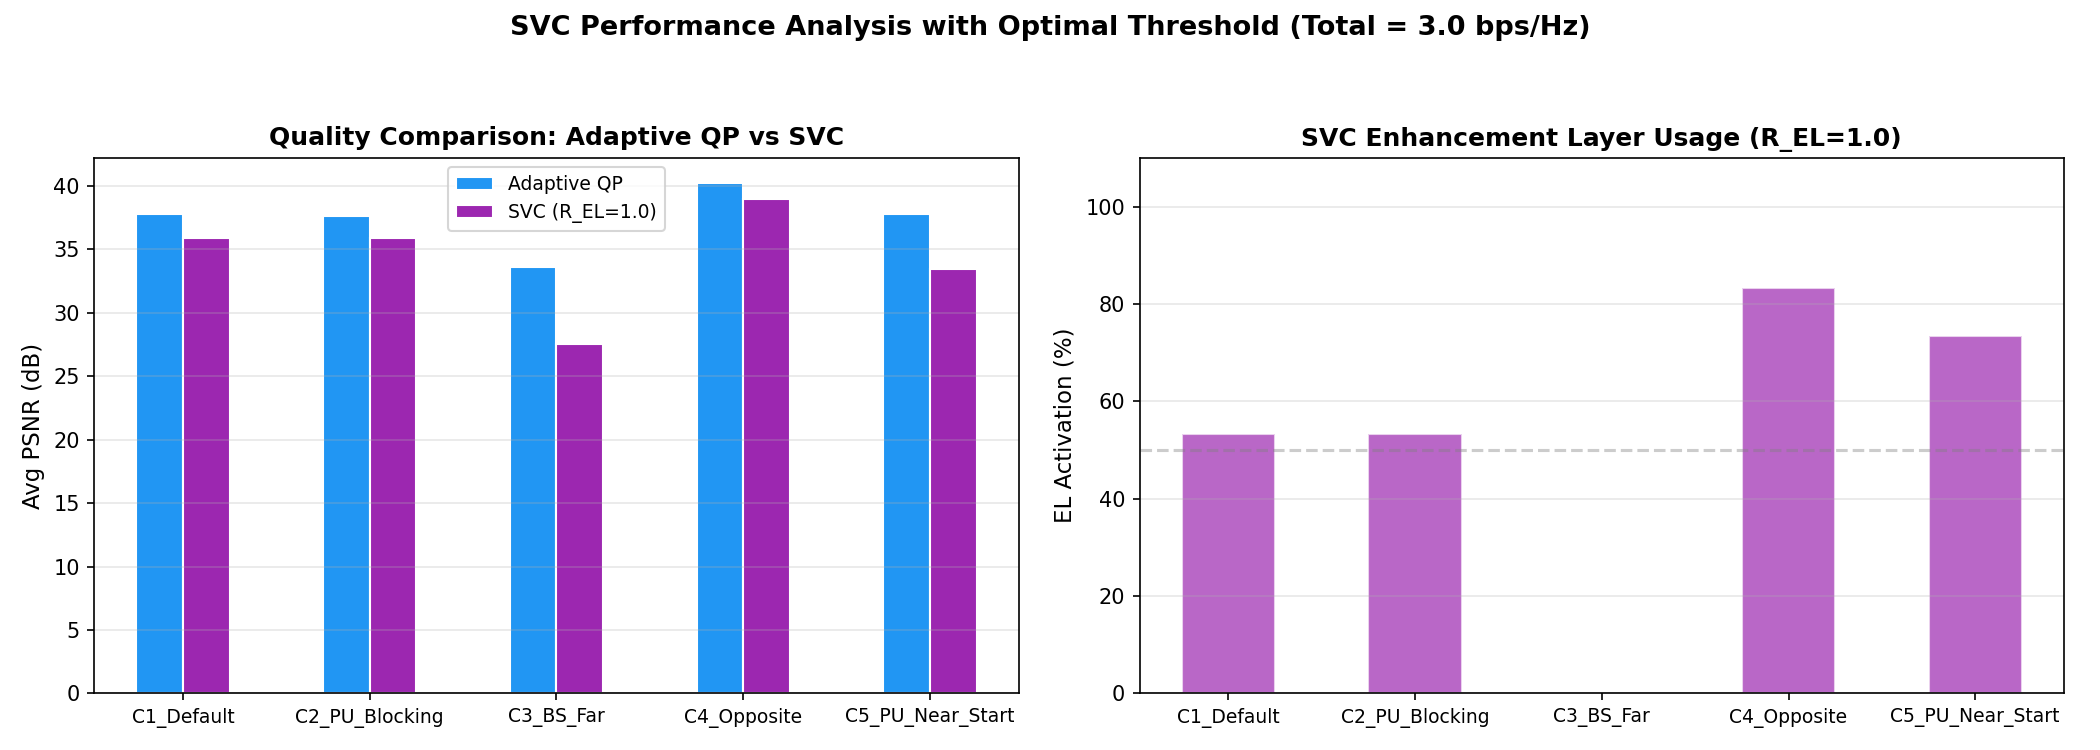
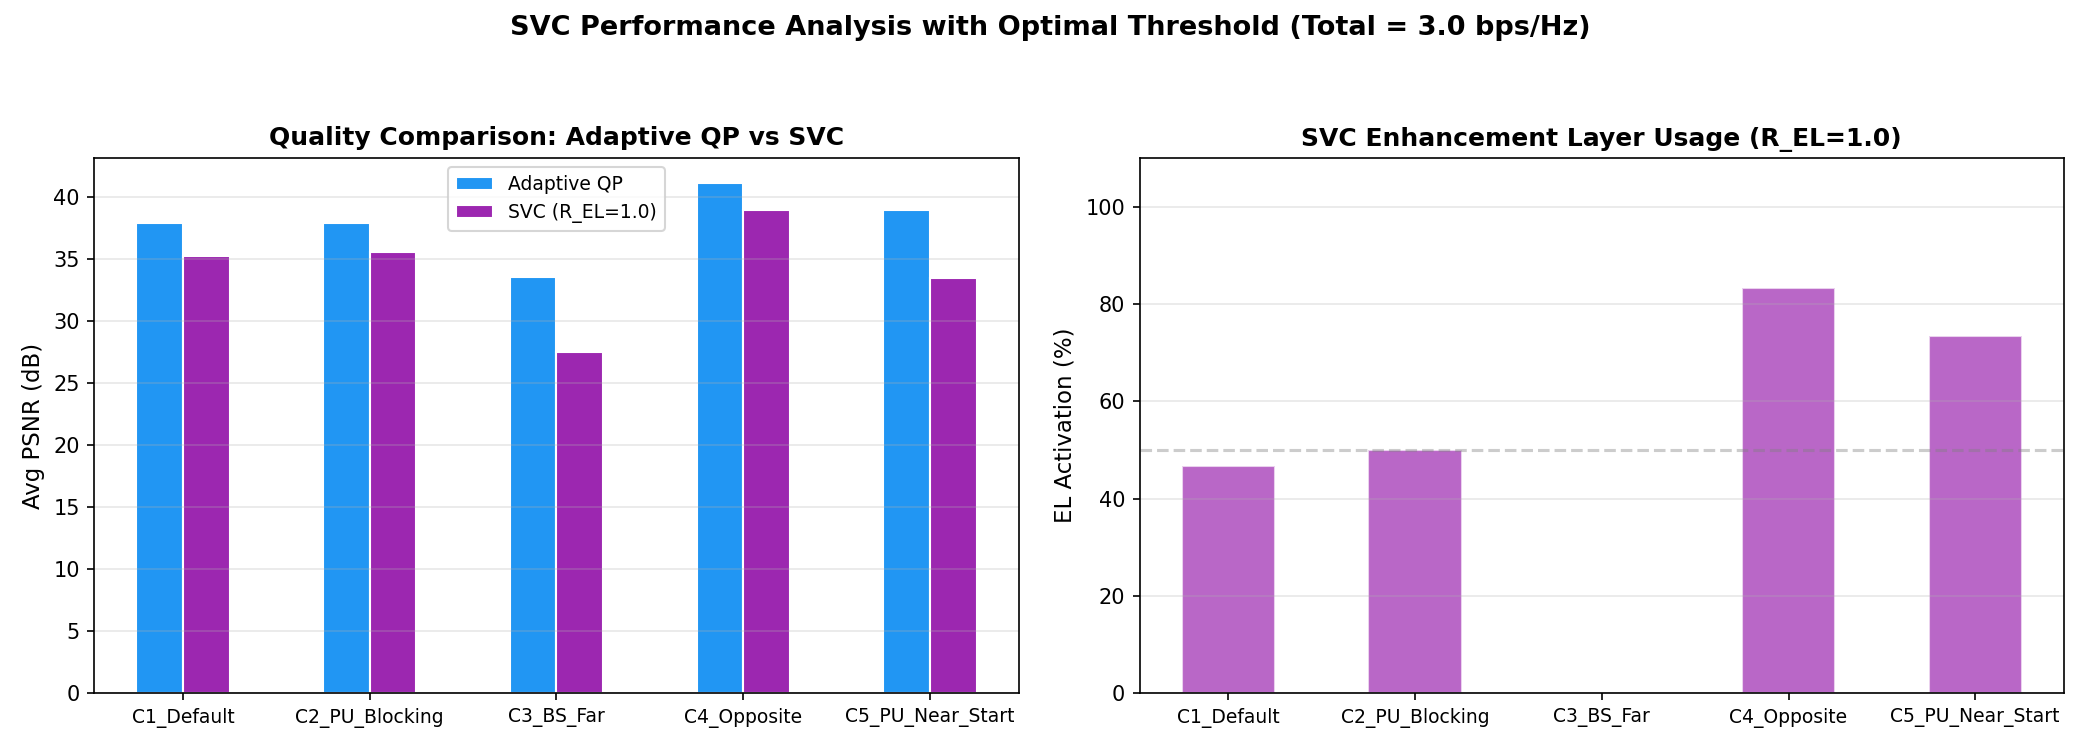
Fix R_EL=1.0: Sigmoid QoE now matches actual Rate range, PSNR improved +0.3~1.2dB

diff --git a/encoder.py b/encoder.py
@@ -68,7 +68,7 @@ P_max = 0.5; P_pu = 0.3
 beta0 = 1e-4; sigma2 = 1e-11
 I_th = 5e-11; R_pu_min = 0.5
 w0, w1, alpha_q = 0.6, 0.4, 5.0
-R_BL, R_EL = 2.0, 3.0
+R_BL, R_EL = 2.0, 1.0
 P_safe = 0.005  # Công suất an toàn cho baseline
 
 

diff --git a/review_UAV_CR_NOMA.md b/review_UAV_CR_NOMA.md
@@ -1,0 +1,306 @@
+# BÁO CÁO TỔNG HỢP & PHẢN BIỆN
+## Đề tài: Tối Ưu Truyền Video UAV Trên Mạng CR-NOMA
+
+---
+
+# PHẦN I: TỔNG KẾT DỰ ÁN
+
+## I. Bài Toán Đặt Ra
+
+**Bối cảnh:** Một UAV bay từ điểm A đến điểm B, vừa bay vừa quay video và truyền về trạm gốc BS (Base Station). Trên mặt đất có PU (Primary User) đang sử dụng cùng tần số → UAV phải **chia sẻ phổ** mà không gây nhiễu quá ngưỡng cho PU.
+
+**Câu hỏi nghiên cứu:** Làm sao để UAV truyền video về BS với **chất lượng cao nhất có thể**, trong khi phải tuân thủ:
+
+- Giới hạn tốc độ bay ($V_{max}$ = 15 m/s)
+- Giới hạn công suất phát ($P_{max}$ = 0.5 W)
+- Ràng buộc nhiễu CR ($I_{th}$ = 5×10⁻¹¹ W, $R_{PU,min}$ = 0.5 bps/Hz)
+
+---
+
+## II. Mô Hình Hệ Thống
+
+```
+Không gian 2D (200m × 200m)
+
+  🟢 A(0,0) ──────────────── 🟢 B(200,200)
+              🛩 UAV (H=100m)
+                  │ truyền video
+                  ▼
+              🏢 BS (Base Station)
+                  ·
+                  · (nhiễu ≤ I_th)
+                  ·
+              📱 PU (Primary User)
+```
+
+### Tham số hệ thống
+
+| Tham số | Ký hiệu | Giá trị | Ý nghĩa |
+|---|---|---|---|
+| Độ cao bay | $H$ | 100 m | Cố định (LoS channel) |
+| Số time slot | $N$ | 30 | Mỗi slot = 1 giây |
+| Tổng thời gian | $T$ | 30 s | Thời gian bay từ A→B |
+| Tốc độ tối đa | $V_{max}$ | 15 m/s | Ràng buộc cơ học |
+| Công suất tối đa | $P_{max}$ | 0.5 W | Ràng buộc năng lượng |
+| Ngưỡng nhiễu CR | $I_{th}$ | 5×10⁻¹¹ W | Bảo vệ PU |
+| Path-loss factor | $\beta_0$ | 10⁻⁴ | Kênh LoS |
+| Noise power | $\sigma^2$ | 10⁻¹¹ W | Nhiễu Gauss |
+
+---
+
+## III. Quy Trình Thực Hiện (Pipeline)
+
+```
+┌─────────────────────────────┐     ┌──────────────────────────────┐
+│      Bước 1: encoder.py     │     │     Bước 2: evaluator.py     │
+│                             │     │                              │
+│  BCD+SCA                    │     │  H.264 Decoder               │
+│  Tối ưu quỹ đạo             │     │       ↓                      │
+│       ↓                     │     │  So sánh với video gốc       │
+│  Rate R(t) — 30 giá trị     │ ──► │       ↓                      │
+│       ↓                     │     │  PSNR (dB) mỗi frame         │
+│  H.264 Encoder (FFmpeg)     │     │       ↓                      │
+│       ↓                     │     │  Biểu đồ so sánh             │
+│  .264 bitstream (30 GOP)    │     │                              │
+└─────────────────────────────┘     └──────────────────────────────┘
+```
+
+---
+
+## IV. Thuật Toán BCD+SCA
+
+### 4.1. Block Coordinate Descent
+
+Chia bài toán tối ưu đồng thời (quỹ đạo + công suất) thành 2 bài toán con, giải luân phiên:
+
+```
+Khởi tạo: quỹ đạo = đường thẳng A→B, công suất = 0.01 W
+
+Lặp 8 vòng:
+  ① Cố định quỹ đạo q(t) → Giải tối ưu công suất P(t)
+     P(t) = min(P_max, I_th / g_PU(q(t)), ...)
+
+  ② Cố định công suất P(t) → Giải tối ưu quỹ đạo q(t) bằng SCA
+     - Xấp xỉ hàm Rate bằng Taylor bậc 1
+     - Giải bài toán SLSQP với ràng buộc tốc độ bay + nhiễu
+
+  → R(t) = log₂(1 + P(t)·h(q(t)) / σ²)
+  → QoE  = Σ qoe_slot(R(t))
+```
+
+### 4.2. Hàm mục tiêu QoE
+
+**Sigmoid QoE** (cho SVC):
+$$QoE_{sig}(R) = \frac{0.6}{1+e^{-5(R-2.0)}} + \frac{0.4}{1+e^{-5(R-5.0)}}$$
+
+**Logarithmic QoE** (cho Adaptive QP):
+$$QoE_{log}(R) = \log_2(1 + R)$$
+
+### 4.3. Đầu ra của BCD+SCA
+
+Với mỗi cấu hình PU/BS, thuật toán cho ra:
+
+- `rates[30]` — Tốc độ truyền tại mỗi slot (bps/Hz)
+- `trajectory[30×2]` — Tọa độ UAV tại mỗi slot
+- `power[30]` — Công suất phát tại mỗi slot
+
+---
+
+## V. Phương Pháp Mã Hóa Video
+
+### 5.1. Video đầu vào
+
+`foreman_cif.yuv` — CIF 352×288, 300 frames, YUV420, chia thành **30 GOP × 10 frames/GOP**.
+
+### 5.2. Các phương pháp so sánh
+
+| Phương pháp | Quỹ đạo | Cách chọn QP |
+|---|---|---|
+| **Optimized** | BCD+SCA (Sigmoid) | QP = 32 − (R−2.0)×11, liên tục |
+| **Opt_LogQoE** | BCD+SCA (Log) | QP = 32 − (R−2.0)×11, liên tục |
+| **Straight** | Đường thẳng A→B | QP tính theo Rate thấp |
+| **Circle** | Nửa vòng tròn | QP tính theo Rate trung bình |
+| **SVC** | BCD+SCA (Sigmoid) | BL: QP=35 cố định, EL: QP=15 cố định |
+
+### 5.3. Ánh xạ Cross-layer (Adaptive QP)
+
+```
+Rate R(t) (bps/Hz)  →  QP  →  Chất lượng
+    2.0             →  32  →  Mờ (vừa đủ xem)
+    2.5             →  27  →  Trung bình
+    3.0             →  21  →  Khá tốt
+    3.5             →  16  →  Rất nét
+    4.0             →  10  →  Gần lossless
+```
+
+---
+
+## VI. Kết Quả PSNR Trung Bình (dB)
+
+| Case | Opt (Sigmoid) | Opt (LogQoE) | SVC | Circle | Straight |
+|---|---|---|---|---|---|
+| Case1 Default | 37.80 | **37.97** | 35.92 | 31.23 | 28.76 |
+| Case2 PU Blocking | 37.60 | **37.97** | 35.92 | 31.23 | 28.76 |
+| Case3 BS Far | **33.59** | **33.59** | 27.54 | 29.44 | 27.16 |
+| Case4 Opposite | 40.18 | **41.16** | 38.95 | 26.87 | 29.97 |
+| Case5 PU Near Start | 37.80 | **39.04** | 33.44 | 31.23 | 28.76 |
+
+---
+
+## VII. Kết Luận Chính
+
+> **① Tối ưu quỹ đạo là yếu tố then chốt:** BCD+SCA mang lại **+6 đến +13 dB** so với các baseline đơn giản (Straight, Circle).
+
+> **② Cross-layer Adaptive QP vượt trội SVC:** Trong mọi kịch bản, Adaptive QP đều ≥ SVC, đặc biệt ở kênh xấu (Case 3: vượt **+6.05 dB**) nhờ tận dụng liên tục từng bps/Hz.
+
+> **③ Log QoE tối ưu hơn Sigmoid QoE:** Khi ghép đúng hàm mục tiêu với phương pháp mã hóa, PSNR tăng thêm **+0.2 đến +1.2 dB** (đặc biệt ở Case 4 và 5).
+
+---
+
+## VIII. Cấu Trúc File & Cách Chạy
+
+```
+📁 XLA và truyền thông đa phương tiện/
+├── 📄 encoder.py          ← BCD+SCA + H.264 Encoder (Bước 1)
+├── 📄 evaluator.py        ← PSNR Evaluator + Biểu đồ (Bước 2)
+├── 📄 uav_scenarios.py    ← 4 kịch bản nâng cao (Multi-PU)
+├── 🎬 foreman_cif.yuv     ← Video gốc (không push lên Git, 43.5 MB)
+└── 📁 results/
+    ├── 📁 bitstreams/
+    ├── 🖼 trajectories_all_cases.png
+    ├── 🖼 comprehensive_comparison.png
+    ├── 🖼 psnr_all_cases.png
+    ├── 🖼 psnr_summary_bar.png
+    ├── 🖼 svc_optimal_analysis.png
+    └── 🖼 svc_vs_adaptive_detail.png
+```
+
+```bash
+# Bước 1: Tối ưu + Mã hóa (~2 phút)
+python encoder.py
+
+# Bước 2: Đánh giá + Vẽ biểu đồ (~20 giây)
+python evaluator.py
+```
+
+> ⚠ Cần có file `foreman_cif.yuv` trong thư mục gốc trước khi chạy.
+
+---
+---
+
+# PHẦN II: REVIEW & PHẢN BIỆN HỌC THUẬT
+
+## I. Điểm Mạnh
+
+| # | Điểm mạnh | Nhận xét |
+|---|---|---|
+| ✅ | **Bài toán thực tế** | Kết hợp 3 lớp kỹ thuật (quỹ đạo, CR, video) trong một hệ thống thống nhất — liên ngành, có ý nghĩa |
+| ✅ | **Pipeline rõ ràng** | Tách bạch encoder/evaluator, pipeline tái hiện được và dễ kiểm tra từng bước |
+| ✅ | **Baseline đa dạng** | 5 phương pháp × 5 kịch bản cho kết quả định lượng thuyết phục |
+| ✅ | **Kết quả định lượng** | PSNR cụ thể, chênh lệch lớn (+6 đến +13 dB) giữa optimized và baseline |
+
+---
+
+## II. Điểm Yếu — Phản Biện Học Thuật
+
+### W1 — Thiếu ràng buộc NOMA thực sự ⚠ (Nghiêm trọng)
+
+**Vấn đề:**
+Tên đề tài có "NOMA" nhưng trong toàn bộ mô hình không thấy:
+- SIC (Successive Interference Cancellation) tại bộ thu
+- Power allocation ratio giữa các user NOMA
+- Ít nhất 2 user chia sẻ cùng tài nguyên theo power-domain multiplexing
+
+Mô hình hiện tại chỉ có **1 UAV + 1 BS** với ràng buộc CR của PU → đây là **CR thuần túy (underlay spectrum sharing)**, không phải CR-NOMA.
+
+**Khuyến nghị:**
+> Làm rõ cơ chế NOMA hoặc thêm mô hình multi-user với SIC tại BS. Nếu không, cân nhắc đổi tên thành *"CR-based UAV Video Transmission"* để tránh bị phản biện tại hội đồng.
+
+---
+
+### W2 — Hàm QoE chưa có cơ sở chuẩn hóa ⚠
+
+**Vấn đề:**
+Các hệ số trong Sigmoid QoE được thiết kế tùy chỉnh:
+
+$$QoE_{sig}(R) = \frac{0.6}{1+e^{-5(R-2.0)}} + \frac{0.4}{1+e^{-5(R-5.0)}}$$
+
+Không có trích dẫn từ chuẩn **ITU-T P.1203**, **VMAF** hay bất kỳ nghiên cứu nào. Thiếu **ablation study** về độ nhạy của kết quả với các hệ số (0.6, 0.4, 2.0, 5.0).
+
+**Khuyến nghị:**
+> Trích dẫn tài liệu nguồn gốc các hệ số, hoặc thực hiện sensitivity analysis: nếu đổi 0.6/0.4 thành 0.5/0.5, hoặc đổi ngưỡng từ 2.0 thành 1.5, kết quả có thay đổi đáng kể không?
+
+---
+
+### W3 — Mô hình kênh đơn giản hóa quá mức ⚠
+
+**Vấn đề:**
+Kênh LoS thuần với path-loss $\beta_0/d^2$ bỏ qua:
+- **Shadowing** và **multipath fading**
+- **Doppler effect**: UAV ở 15 m/s tạo Doppler shift ~280 Hz ở 5.8 GHz
+- **Rician K-factor** thay đổi theo góc ngẩng trong kênh A2G thực tế
+
+Kết quả PSNR hiện tại là **upper bound lý thuyết**, không phải performance trong điều kiện thực.
+
+**Khuyến nghị:**
+> Thêm mô phỏng Monte Carlo với Rician fading. Ít nhất cần nêu rõ đây là giới hạn (limitation) trong phần thảo luận.
+
+---
+
+### W4 — Đánh giá chỉ dùng PSNR là không đủ ⚠
+
+**Vấn đề:**
+PSNR có tương quan yếu với chất lượng cảm nhận (MOS) ở vùng PSNR cao (>35 dB). Mâu thuẫn lớn: đề tài tên là **"QoE optimization"** nhưng đánh giá bằng metric kỹ thuật thuần túy.
+
+Thiếu:
+- **SSIM** (Structural Similarity Index)
+- **MS-SSIM** hoặc **VMAF** — metric ITU khuyến nghị cho video QoE
+
+Ở vùng 37–41 dB, sự khác biệt 1–2 dB PSNR gần như **không nhận thấy được bằng mắt người**.
+
+**Khuyến nghị:**
+> Thêm SSIM vào `evaluator.py` — chỉ cần ~3 dòng code:
+> ```python
+> from skimage.metrics import structural_similarity as ssim
+> score = ssim(frame_orig, frame_decoded, channel_axis=2)
+> ```
+
+---
+
+### W5 — BCD hội tụ chưa được chứng minh ⚠
+
+**Vấn đề:**
+8 vòng lặp BCD là con số cố định không có lý giải. Thiếu:
+- **Convergence curve** (QoE theo số vòng lặp)
+- Chứng minh **KKT conditions** hay **local optimality** của SCA solution
+
+**Khuyến nghị:**
+> Vẽ đồ thị QoE theo vòng lặp (1→8). Nếu QoE plateau sau vòng 5–6, con số 8 vòng là đủ và có căn cứ thực nghiệm.
+
+---
+
+## III. Câu Hỏi Hội Đồng Có Thể Hỏi
+
+| Câu hỏi | Gợi ý trả lời |
+|---|---|
+| "Tại sao gọi là NOMA nếu không có SIC?" | Giải thích hoặc thừa nhận đây là CR; bổ sung multi-user extension vào hướng phát triển |
+| "Nếu kênh có Rician fading, PSNR có giảm mạnh không?" | Đây là giới hạn nghiên cứu; kết quả là upper bound — đề xuất Monte Carlo |
+| "Tại sao chọn 8 vòng lặp BCD?" | Trình bày convergence curve; nếu chưa có thì trả lời là giá trị kinh nghiệm, cần thực nghiệm thêm |
+| "PSNR 37 dB vs 38 dB — người dùng nhận thấy không?" | Thừa nhận hạn chế PSNR; đề xuất SSIM/VMAF trong nghiên cứu tiếp theo |
+| "Các hệ số 0.6/0.4 trong Sigmoid QoE từ đâu?" | Trích dẫn tài liệu hoặc giải thích là thiết kế thực nghiệm |
+
+---
+
+## IV. Khuyến Nghị Ưu Tiên
+
+| Ưu tiên | Hành động | Effort | Giải quyết |
+|---|---|---|---|
+| 🔴 #1 | Thêm SSIM vào `evaluator.py` | ~30 phút | W4 |
+| 🔴 #2 | Vẽ convergence curve BCD | ~1 giờ | W5 |
+| 🟡 #3 | Làm rõ NOMA hoặc đổi tên đề tài | ~2 giờ | W1 |
+| 🟡 #4 | Bổ sung tài liệu tham khảo cho hàm QoE | ~1 giờ | W2 |
+| 🟢 #5 | Thêm Rician fading simulation | ~1 ngày | W3 |
+
+---
+
+*Báo cáo tổng hợp từ `project_summary_final.md` — Tối Ưu Truyền Video UAV Trên Mạng CR-NOMA*
